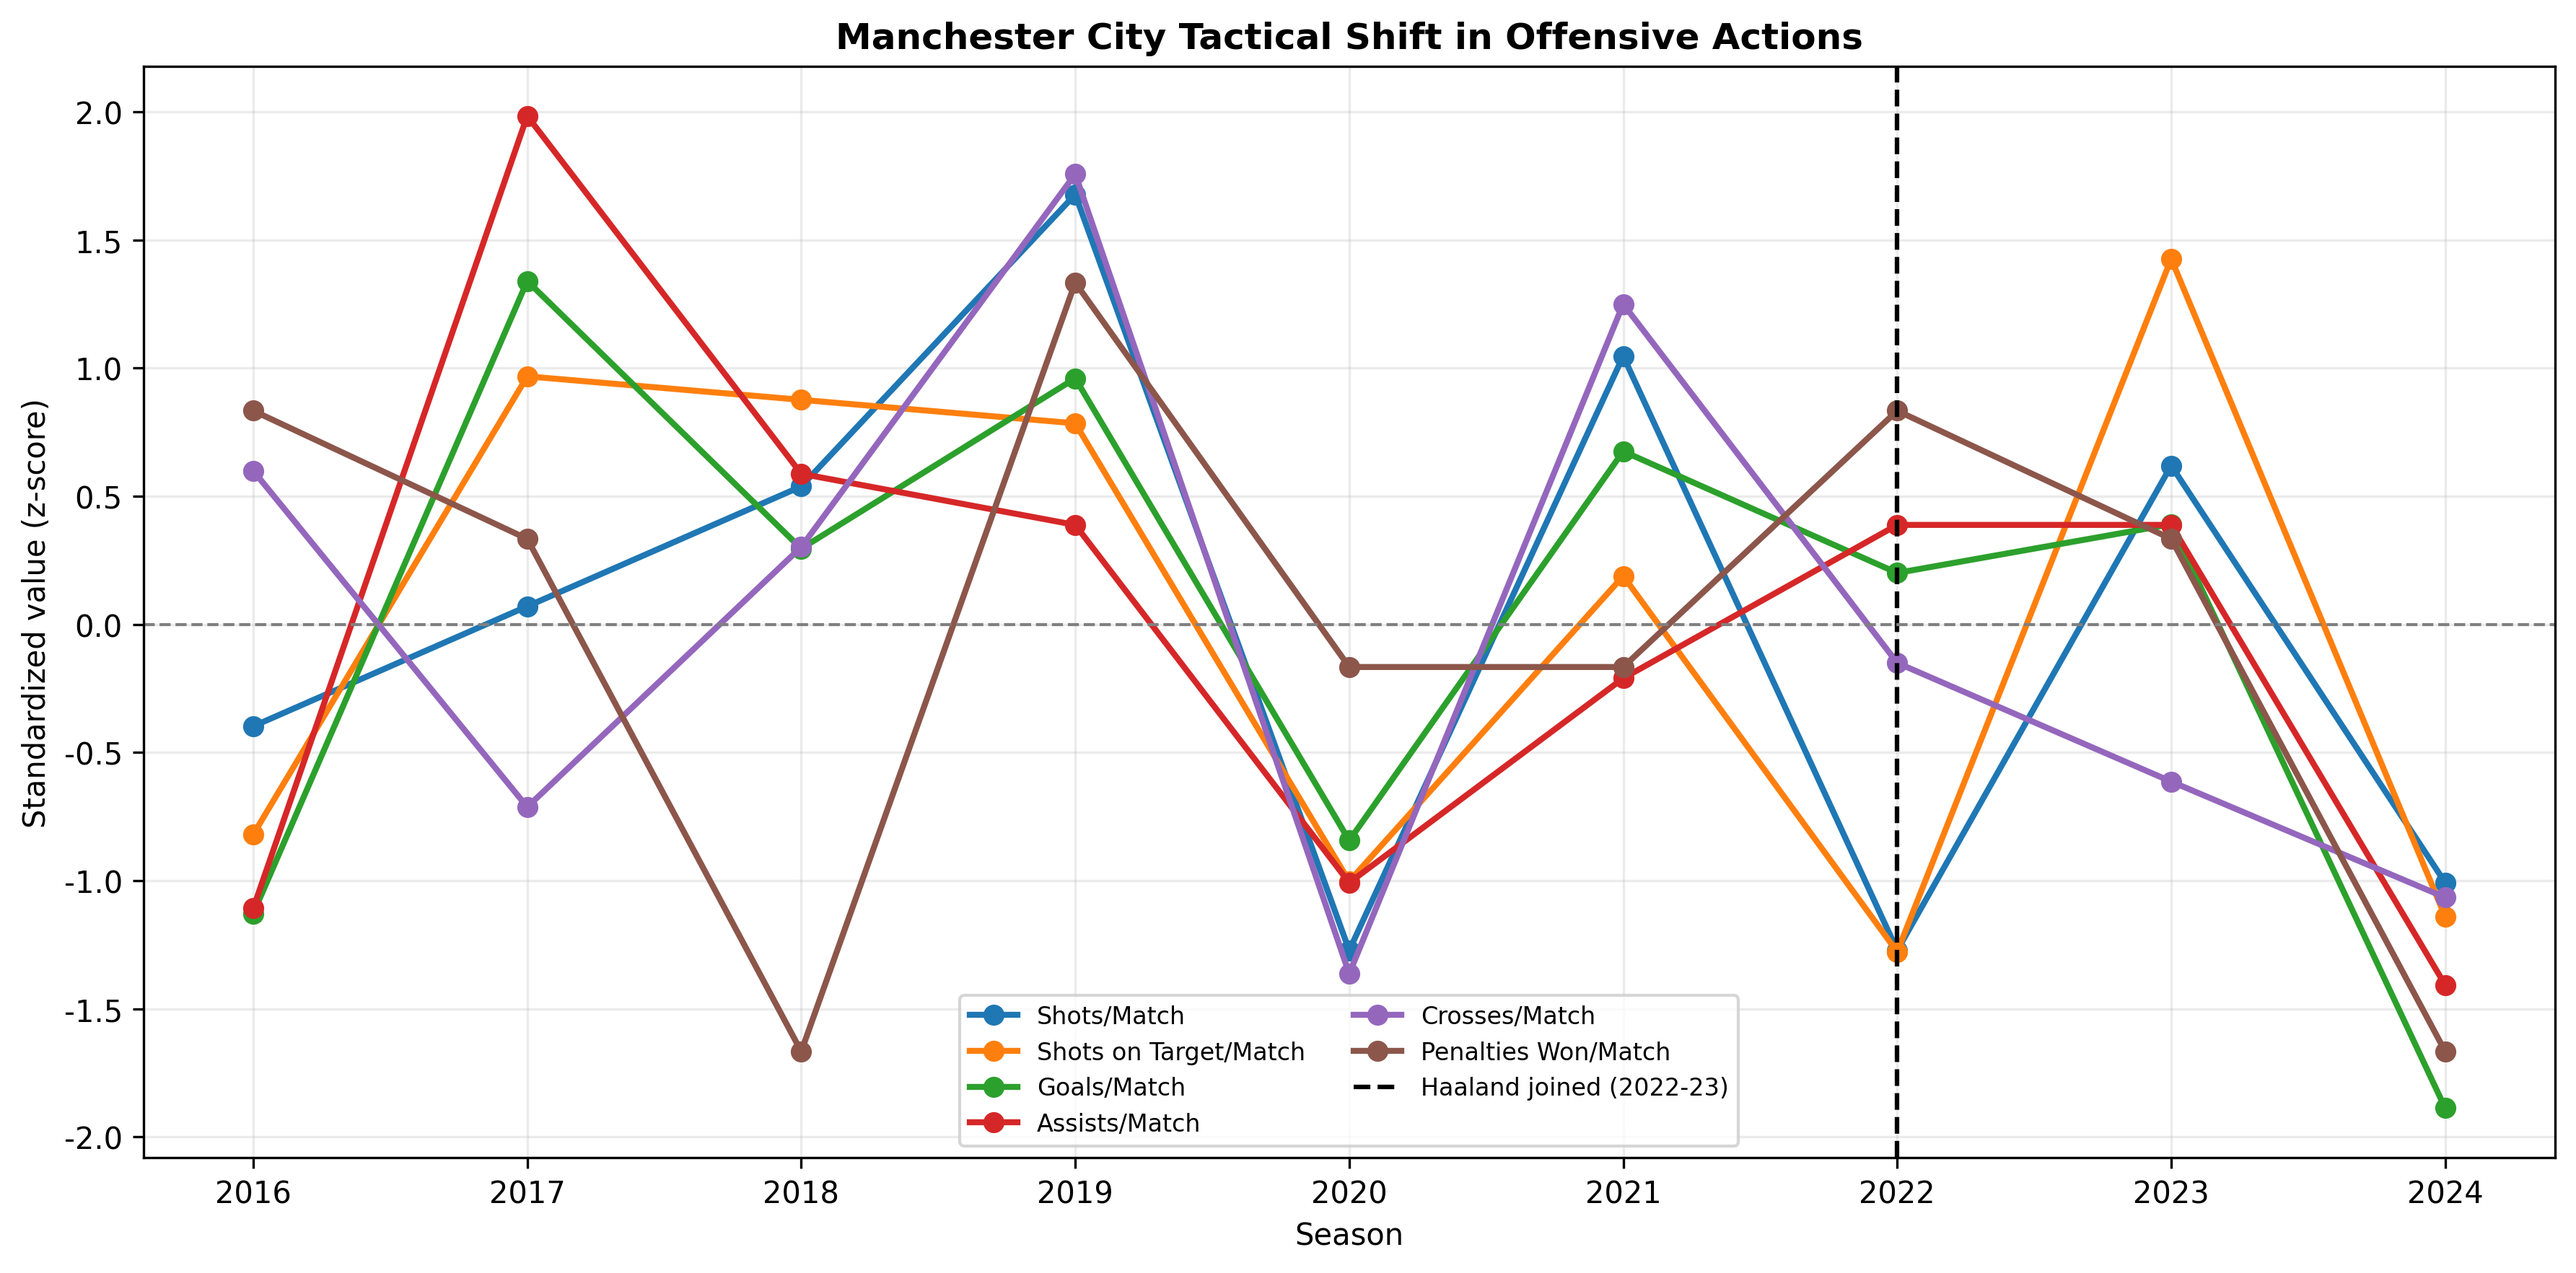
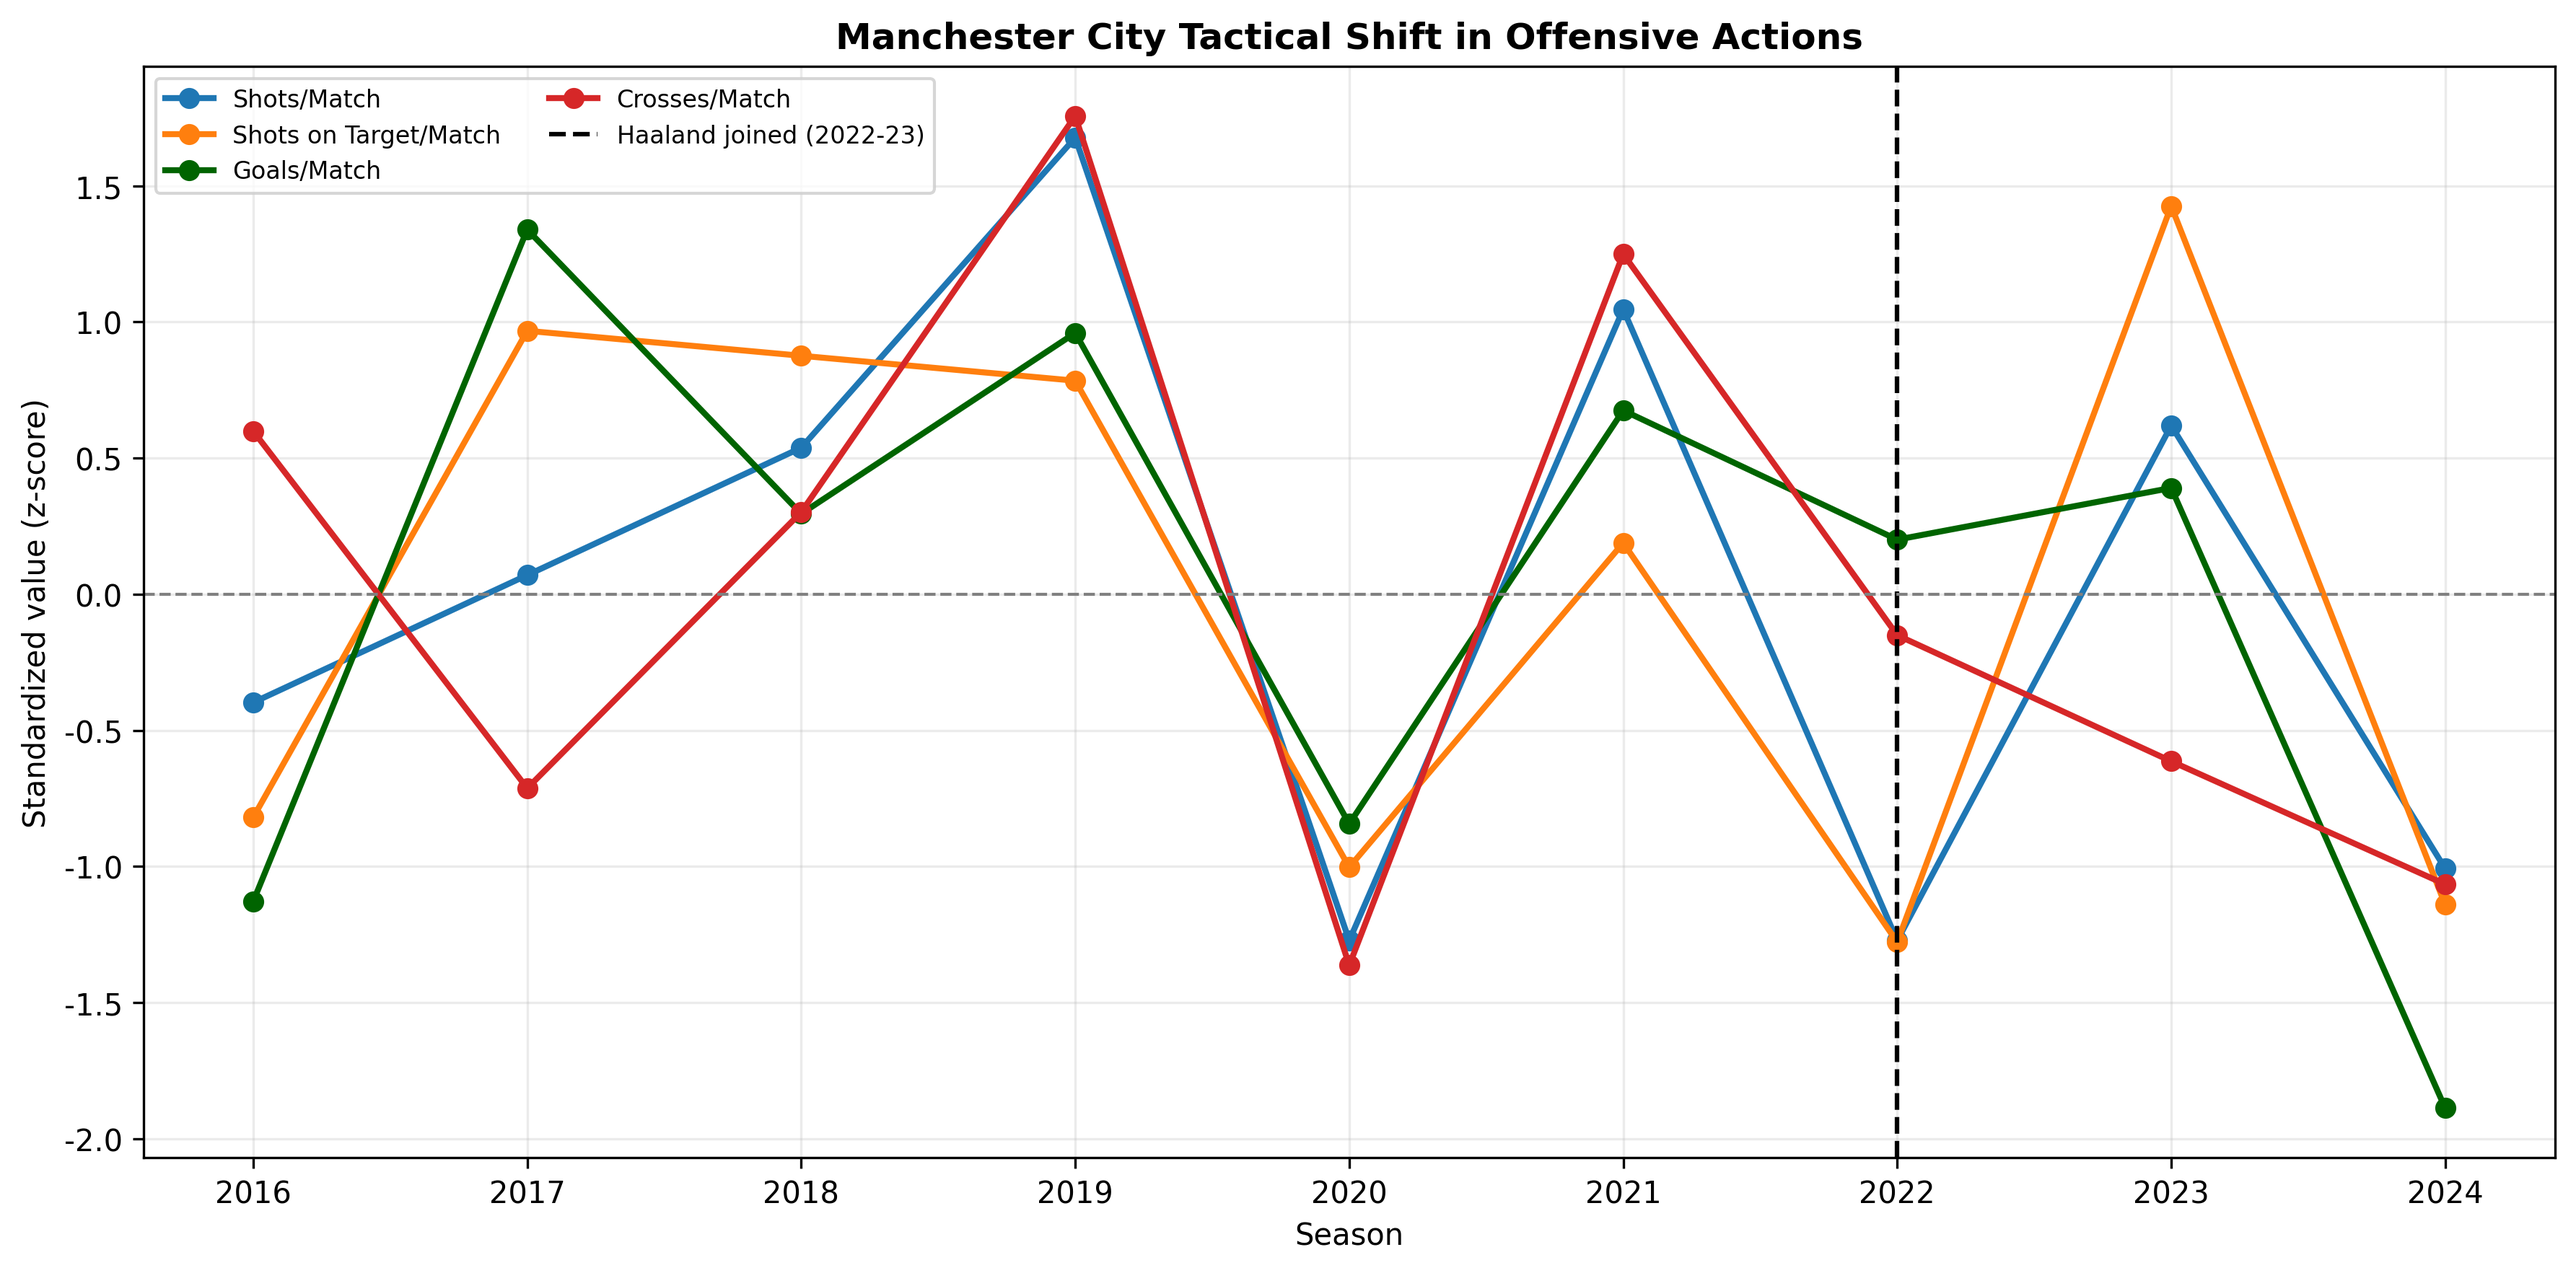
3.18-2

diff --git a/scripts/draw_inverted_fullback_tactical_diagram.py b/scripts/draw_inverted_fullback_tactical_diagram.py
@@ -1,0 +1,182 @@
+#!/usr/bin/env python3
+"""Draw a tactical diagram for Inverted Fullback (边后腰) concept."""
+
+from __future__ import annotations
+
+from pathlib import Path
+
+import matplotlib.pyplot as plt
+from matplotlib import font_manager
+from matplotlib.patches import Arc, Circle, FancyArrowPatch, Polygon, Rectangle
+
+OUTPUT_COLOR_PATH = Path("chapter4_player_role/inverted_fullback_tactical_diagram.png")
+CN_FONT_PATH = Path("assets/fonts/SourceHanSansSC-Regular.otf")
+
+COLOR_THEME = {
+    "pitch_edge": "#1b5e20",
+    "pitch_face": "#2e7d32",
+    "line": "white",
+    "title": "white",
+    "fig_face": "#1b5e20",
+    "team_def": "#ffca28",
+    "team_mid": "#ffd54f",
+    "team_att": "#ffb300",
+    "opp_def": "#3949ab",
+    "opp_core": "#283593",
+    "attack_1": "#ffee58",
+    "attack_2": "#fff176",
+    "counter": "#ef5350",
+    "counter_text": "#ffcdd2",
+    "control_poly": "#80deea",
+    "control_text": "#e0f7fa",
+    "player_text": "white",
+    "caption": "#f5f5f5",
+}
+
+def draw_pitch(ax, cn_font, theme: dict[str, str]) -> None:
+    pitch = Rectangle((0, 0), 120, 80, linewidth=2, edgecolor=theme["pitch_edge"], facecolor=theme["pitch_face"])
+    ax.add_patch(pitch)
+    ax.plot([60, 60], [0, 80], color=theme["line"], linewidth=1.6)
+    ax.add_patch(Circle((60, 40), 10, fill=False, color=theme["line"], linewidth=1.6))
+
+    ax.add_patch(Rectangle((0, 18), 18, 44, fill=False, edgecolor=theme["line"], linewidth=1.6))
+    ax.add_patch(Rectangle((102, 18), 18, 44, fill=False, edgecolor=theme["line"], linewidth=1.6))
+    ax.add_patch(Rectangle((0, 30), 6, 20, fill=False, edgecolor=theme["line"], linewidth=1.6))
+    ax.add_patch(Rectangle((114, 30), 6, 20, fill=False, edgecolor=theme["line"], linewidth=1.6))
+
+    ax.plot(12, 40, "o", color=theme["line"], markersize=2.8)
+    ax.plot(108, 40, "o", color=theme["line"], markersize=2.8)
+    ax.add_patch(Arc((12, 40), 20, 20, theta1=310, theta2=50, color=theme["line"], linewidth=1.6))
+    ax.add_patch(Arc((108, 40), 20, 20, theta1=130, theta2=230, color=theme["line"], linewidth=1.6))
+
+    ax.set_xlim(0, 120)
+    ax.set_ylim(0, 80)
+    ax.set_aspect("equal")
+    ax.axis("off")
+
+
+def draw_player(ax, x: float, y: float, label: str, color: str, cn_font, theme: dict[str, str], size: float = 2.0) -> None:
+    ax.add_patch(Circle((x, y), size, facecolor=color, edgecolor="black", linewidth=1.1, zorder=5))
+    ax.text(x, y + 2.8, label, ha="center", va="bottom", fontsize=8.5, color=theme["player_text"], fontweight="bold", fontproperties=cn_font)
+
+
+def draw_arrow(ax, start: tuple[float, float], end: tuple[float, float], color: str, dashed: bool = False, lw: float = 2.0) -> None:
+    ax.add_patch(
+        FancyArrowPatch(
+            start,
+            end,
+            arrowstyle="->",
+            mutation_scale=12,
+            linewidth=lw,
+            linestyle="--" if dashed else "-",
+            color=color,
+            zorder=6,
+        )
+    )
+
+
+def draw_left_traditional(ax, cn_font, theme: dict[str, str]) -> None:
+    draw_pitch(ax, cn_font, theme)
+
+    # Team in possession (City/Arsenal-like), traditional fullback stays wide
+    draw_player(ax, 18, 28, "LB", theme["team_def"], cn_font, theme)
+    draw_player(ax, 18, 52, "RB", theme["team_def"], cn_font, theme)
+    draw_player(ax, 32, 40, "6", theme["team_def"], cn_font, theme)
+    draw_player(ax, 44, 28, "8", theme["team_def"], cn_font, theme)
+    draw_player(ax, 44, 52, "8", theme["team_def"], cn_font, theme)
+    draw_player(ax, 72, 20, "LW", theme["team_att"], cn_font, theme)
+    draw_player(ax, 78, 40, "9", theme["team_att"], cn_font, theme)
+    draw_player(ax, 72, 60, "RW", theme["team_att"], cn_font, theme)
+
+    # Opponent front block
+    draw_player(ax, 55, 30, "Opp 8", theme["opp_def"], cn_font, theme)
+    draw_player(ax, 55, 50, "Opp 8", theme["opp_def"], cn_font, theme)
+    draw_player(ax, 68, 40, "Opp 9", theme["opp_core"], cn_font, theme)
+
+    # Wide progression arrows
+    draw_arrow(ax, (18, 28), (36, 22), theme["attack_1"])
+    draw_arrow(ax, (18, 52), (36, 58), theme["attack_1"])
+    draw_arrow(ax, (44, 28), (62, 24), theme["attack_2"])
+    draw_arrow(ax, (44, 52), (62, 56), theme["attack_2"])
+
+    # Opponent counterattack lane (more open)
+    draw_arrow(ax, (68, 40), (44, 40), theme["counter"], dashed=True, lw=2.2)
+    ax.text(43, 42.5, "反击通道较开放", color=theme["counter_text"], fontsize=8.5, fontproperties=cn_font)
+
+    # Midfield control polygon (smaller)
+    poly = Polygon([(30, 35), (44, 30), (48, 40), (44, 50), (30, 45)], fill=False, edgecolor=theme["control_poly"], linewidth=2, linestyle="--")
+    ax.add_patch(poly)
+    ax.text(31, 53, "中场控制区较小", color=theme["control_text"], fontsize=8.3, fontproperties=cn_font)
+
+
+def draw_right_inverted(ax, cn_font, theme: dict[str, str]) -> None:
+    draw_pitch(ax, cn_font, theme)
+
+    # Back 3 and double pivot (with inverted fullback)
+    draw_player(ax, 20, 24, "LCB", theme["team_def"], cn_font, theme)
+    draw_player(ax, 20, 40, "CB", theme["team_def"], cn_font, theme)
+    draw_player(ax, 20, 56, "RCB", theme["team_def"], cn_font, theme)
+
+    draw_player(ax, 36, 34, "6", theme["team_mid"], cn_font, theme)
+    draw_player(ax, 36, 46, "IFB", theme["team_mid"], cn_font, theme)  # inverted fullback
+
+    # Front five
+    draw_player(ax, 58, 16, "LW", theme["team_att"], cn_font, theme)
+    draw_player(ax, 62, 30, "8", theme["team_att"], cn_font, theme)
+    draw_player(ax, 72, 40, "9", theme["team_att"], cn_font, theme)
+    draw_player(ax, 62, 50, "8", theme["team_att"], cn_font, theme)
+    draw_player(ax, 58, 64, "RW", theme["team_att"], cn_font, theme)
+
+    # Opponent forwards trying to counter
+    draw_player(ax, 58, 34, "Opp 9", theme["opp_core"], cn_font, theme)
+    draw_player(ax, 58, 46, "Opp 10", theme["opp_core"], cn_font, theme)
+
+    # IFB movement and support
+    draw_arrow(ax, (20, 56), (36, 46), theme["attack_1"])
+    ax.text(37.5, 49, "边后卫内收", color=theme["control_text"], fontsize=8.5, fontproperties=cn_font)
+
+    # Build-up superiority arrows
+    draw_arrow(ax, (36, 34), (62, 30), theme["attack_2"])
+    draw_arrow(ax, (36, 46), (62, 50), theme["attack_2"])
+    draw_arrow(ax, (62, 30), (72, 40), theme["attack_1"])
+    draw_arrow(ax, (62, 50), (72, 40), theme["attack_1"])
+
+    # Counterattack blocking lanes
+    draw_arrow(ax, (58, 34), (42, 34), theme["counter"], dashed=True)
+    draw_arrow(ax, (58, 46), (42, 46), theme["counter"], dashed=True)
+    ax.text(40.5, 52, "反击线路被提前封锁", color=theme["counter_text"], fontsize=8.5, fontproperties=cn_font)
+
+    # Larger control polygon in central corridor
+    poly = Polygon([(28, 28), (46, 26), (64, 40), (46, 54), (28, 52), (24, 40)], fill=False, edgecolor=theme["control_poly"], linewidth=2.2, linestyle="--")
+    ax.add_patch(poly)
+    ax.text(29, 58, "中场控制区扩大", color=theme["control_text"], fontsize=8.3, fontproperties=cn_font)
+
+
+def render_diagram(output_path: Path, theme: dict[str, str], cn_font) -> None:
+    fig, axes = plt.subplots(
+        2,
+        1,
+        figsize=(9.2, 11.2),
+        facecolor=theme["fig_face"],
+        gridspec_kw={"hspace": 0.02},
+    )
+
+    draw_left_traditional(axes[0], cn_font, theme)
+    draw_right_inverted(axes[1], cn_font, theme)
+
+    fig.subplots_adjust(left=0.02, right=0.98, top=0.995, bottom=0.005, hspace=0.02)
+    plt.savefig(output_path, dpi=300, bbox_inches="tight", facecolor=fig.get_facecolor())
+    plt.close(fig)
+
+
+def main() -> None:
+    OUTPUT_COLOR_PATH.parent.mkdir(parents=True, exist_ok=True)
+    cn_font = font_manager.FontProperties(fname=str(CN_FONT_PATH)) if CN_FONT_PATH.exists() else None
+
+    render_diagram(OUTPUT_COLOR_PATH, COLOR_THEME, cn_font)
+
+    print(f"Saved: {OUTPUT_COLOR_PATH}")
+
+
+if __name__ == "__main__":
+    main()

diff --git a/scripts/analyze_haaland_impact.py b/scripts/analyze_haaland_impact.py
@@ -31,6 +31,20 @@ CITY_METRICS = [
     "penalties_won_per_match",
 ]
 
+TREND_METRICS = [
+    "shots_per_match",
+    "shots_on_target_per_match",
+    "goals_per_match",
+    "cross_volume_per_match",
+]
+
+TREND_METRIC_COLORS = {
+    "shots_per_match": "#1f77b4",
+    "shots_on_target_per_match": "#ff7f0e",
+    "goals_per_match": "#006400",
+    "cross_volume_per_match": "#d62728",
+}
+
 CITY_METRIC_LABELS = {
     "shots_per_match": "Shots/Match",
     "shots_on_target_per_match": "Shots on Target/Match",
@@ -211,10 +225,17 @@ def plot_pre_post_bars(comp_df: pd.DataFrame, output_path: Path) -> None:
 def plot_tactical_shift_trend(city_df: pd.DataFrame, output_path: Path) -> None:
     fig, ax = plt.subplots(figsize=(12, 6))
 
-    for metric in CITY_METRICS:
+    for metric in TREND_METRICS:
         values = city_df[metric].to_numpy(dtype=float)
         z = (values - values.mean()) / (values.std(ddof=0) if values.std(ddof=0) != 0 else 1)
-        ax.plot(city_df["season_year"], z, marker="o", linewidth=2, label=CITY_METRIC_LABELS[metric])
+        ax.plot(
+            city_df["season_year"],
+            z,
+            marker="o",
+            linewidth=2,
+            label=CITY_METRIC_LABELS[metric],
+            color=TREND_METRIC_COLORS.get(metric),
+        )
 
     ax.axvline(2022, color="black", linestyle="--", linewidth=1.5, label="Haaland joined (2022-23)")
     ax.axhline(0, color="gray", linestyle="--", linewidth=1)
